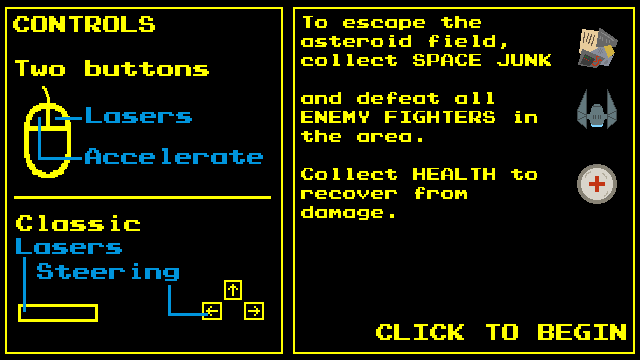
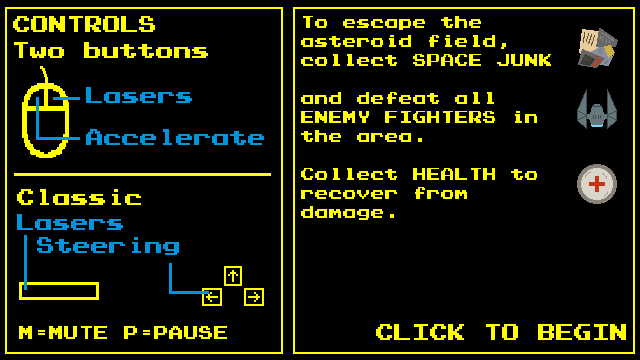
Fixed music, added pause and mute

Changed region(s): [[0.0, 0.1222, 0.4375, 0.9472]]

diff --git a/index.html b/index.html
@@ -84,6 +84,10 @@
     var mouseX = 0;
     var mouseY = 0;
     var mouseMoved = false;
+    var mPressed = false;
+    
+    var mute = false;
+    var paused = false;
         
     //Timing
     var time;
@@ -92,9 +96,23 @@
     //Input
     document.addEventListener("keydown", keyDownHandler, false);
     document.addEventListener("keyup", keyUpHandler, false);
+    document.addEventListener("keypress", keyPressHandler);
     document.addEventListener("mousemove", mouseMoveHandler, false);
     window.addEventListener("mousedown", mouseDownHandler, false);
     window.addEventListener("mouseup", mouseUpHandler, false);
+    
+    function keyPressHandler(e) {
+      if(e.keyCode == 109) {
+        console.log("m pressed");
+        mute = !mute;
+        if(mute) music.pause();
+        if(!mute) music.play();
+      }
+      else if(e.keyCode == 112) {
+        console.log("toggle paused");
+        paused = !paused;
+      }
+    }
     
     function keyDownHandler(e) {
       if(e.keyCode == 39) {
@@ -154,16 +172,11 @@
 
     console.log("Drawing loading screen");
     ctx.beginPath();
-    ctx.rect(PX_WIDTH/2-200,PX_HEIGHT/2-100,400,200);
-    ctx.fillStyle = "black";
-    ctx.strokeStyle = "yellow";
-    ctx.fill();
-    ctx.stroke();
-    ctx.closePath();
+
   
     ctx.fillStyle = "yellow";
-    ctx.font = "16px Pixel";
-    ctx.fillText("Loading...",PX_WIDTH/2-120,PX_HEIGHT/2-16);
+    ctx.font = "18px Pixel";
+    ctx.fillText("Loading...",20,20);
     
     console.log("Loading assets");
     //Audio
@@ -203,8 +216,15 @@
       engine = new Engine();
     });
     
-    //load music first
-
+    //TODO: Refactor to have a function which handles sound playback
+    //to allow for a global mute and volume control
+    
+    //Load music when it's ready
+    music.addEventListener('canplaythrough', function() { 
+      if(!mute) music.play();
+    }, false);
+    music.addEventListener('ended', function() {
+      if(!mute) music.play();});
     loader.start();
   </script>
 </body>

diff --git a/js/Player.js b/js/Player.js
@@ -25,7 +25,7 @@ Player.prototype.update = function() {
   if(this.health<=0) {
     entities.remove(this);
     audioExplode.currentTime = 0;
-    audioExplode.play();
+    if(!mute) audioExplode.play();
     sprites.add(new Sprite(this.posX, this.posY, 4, imgExplode, 6, 4, false, true,
                 function(){gameOver = true;}));
 
@@ -117,11 +117,11 @@ Player.prototype.update = function() {
     if(this.collide && element instanceof Pickup) {
       if(element.pickupType == 0 && this.health < PLAYER_MAXHEALTH) {
         this.health++;
-        audioHealth.play();
+        if(!mute) audioHealth.play();
       }
       else if(element.pickupType == 1) {
         numJunk++;
-        audioJunk.play();
+        if(!mute) audioJunk.play();
       }
       entities.remove(element);
       this.collide = false;
@@ -163,7 +163,7 @@ Player.prototype.damage = function(dmg) {
     this.health-=dmg;
     sprites.add(new Sprite(this.posX, this.posY, 1, imgExplode, 6, 4, false, true));
     audioExplode.currentTime = 0;
-    audioExplode.play();
+    if(!mute) audioExplode.play();
     this.invulnerabilityTimer = PLAYER_INVULNERABLE_TIMEOUT;
   }
   

diff --git a/js/Engine.js b/js/Engine.js
@@ -107,9 +107,6 @@ var Engine = function() {
     else entities.add( new AIShip (x, y, player) );        
   }
   
-  //music.volume = 0.5;
-  //music.play();
-  
   _draw();
 }
 
@@ -123,11 +120,7 @@ function _drawDebugInfo() {
                Math.round(player.posY)+")", 100, 320);
 }
 function _drawStats() {
-  
-  //ctx.fillStyle = "#0095dd";
-  //ctx.fillText("Health: "+player.health+"  Space Junk: "+numJunk+"/"+JUNK_NEEDED,100, 20);
-  
-  
+    
   ctx.save();
   ctx.translate(100,20);
   hpat = ctx.createPattern(iconHealth,"repeat");
@@ -216,6 +209,11 @@ function _draw() {
   time = now; 
 
   if(cutscene) drawCutscene();
+  else if(paused) {
+    ctx.fillStyle = "yellow";
+    ctx.font = "16px Pixel";
+    ctx.fillText("PAUSED",PX_WIDTH/2-48,PX_HEIGHT/2-4);
+  }
   else {    
   //Wipe the screen
   ctx.clearRect(0,0,PX_WIDTH,PX_HEIGHT);

diff --git a/js/Cutscene.js b/js/Cutscene.js
@@ -25,7 +25,7 @@ function drawCutscene() {
     cs_y-=0.4;
     cs_scrollscale -=0.001*cs_scrollscale;
   
-    console.log((PX_WIDTH-imgScroll.width * cs_scrollscale)/2 +","+cs_y);
+
     ctx.drawImage(imgScroll, (PX_WIDTH-imgScroll.width * cs_scrollscale)/2, 
                            cs_y, imgScroll.width * cs_scrollscale,imgScroll.height * cs_scrollscale);
     if(lmbPressed) {

diff --git a/js/MoveableEntity.js b/js/MoveableEntity.js
@@ -45,7 +45,9 @@ MoveableEntity.prototype.update = function() {
     this.posY = 0; 
     teleport = true;
   }
-  if(teleport && this instanceof Player) audioTeleport.play();
+  if(teleport && this instanceof Player) {
+    if(!mute) audioTeleport.play();
+  }
 }
 
 MoveableEntity.prototype.damage = function(dmg) {

diff --git a/js/Laser.js b/js/Laser.js
@@ -16,7 +16,7 @@ var Laser = function( startX, startY, angle, isPlayers ) {
   this.didCollide = false;
   
   audioLaser.currentTime = 0;
-  audioLaser.play();
+  if(!mute) audioLaser.play();
 }
 
 Laser.prototype.update = function() {
